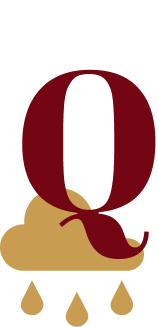
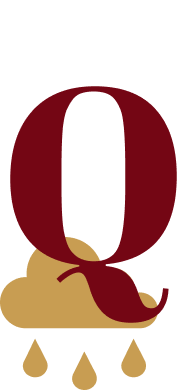
CaseStudyTypography: replace image with coded specimen card; CaseStudyColour: 5-col swatch row, 4-col image row, 12px description text

diff --git a/src/components/CaseStudyTypography.tsx b/src/components/CaseStudyTypography.tsx
@@ -1,16 +1,55 @@
+const SPECIMEN = 'ABCDEFGHIJKLMNOPQRSTUVWXYZabcdefghijklmnopqrstuvwxyz0123456789!?<>,.'
+
+const CAMPINGO = "'Bree Serif', serif"
+const GOTHIQUE = "'Nunito', sans-serif"
+const GEIST    = "'Inter', sans-serif"
+
+const WEIGHTS = [
+  { label: 'light',      w: 300 },
+  { label: 'bold',       w: 700 },
+  { label: 'thin',       w: 100 },
+  { label: 'regular',    w: 400 },
+  { label: 'semi bold',  w: 600 },
+  { label: 'extra bold', w: 800 },
+]
+
+function WeightList({ font }: { font: string }) {
+  return (
+    <div className="flex flex-col gap-[3px] items-end">
+      {WEIGHTS.map((wt) => (
+        <span
+          key={wt.label}
+          style={{
+            fontFamily: font,
+            fontWeight: wt.w,
+            fontSize: '15px',
+            lineHeight: '1.5',
+            color: '#D6587A',
+          }}
+        >
+          {wt.label}
+        </span>
+      ))}
+    </div>
+  )
+}
+
 export default function CaseStudyTypography() {
   return (
     <div className="bg-black px-[30px] grid grid-cols-[1fr_2fr] gap-x-16 gap-y-12 pt-20 pb-24">
 
-      {/* Col 1 — header */}
+      {/* Fonts */}
+      <style>{`@import url('https://fonts.googleapis.com/css2?family=Bree+Serif&family=Nunito:wght@100;200;300;400;600;700;800;900&family=Inter:wght@100;300;400;600;700;800;900&display=swap');`}</style>
+
+      {/* Col 1 */}
       <div className="self-start">
         <h2 className="font-body text-[38px] font-normal leading-[1.1] text-white">
-          Type That Plays Both Roles
+          Type that plays both roles
         </h2>
       </div>
 
-      {/* Col 2 — body + image */}
-      <div className="flex flex-col gap-8">
+      {/* Col 2 */}
+      <div className="flex flex-col gap-8 self-start">
         <p className="font-body text-[18px] font-normal leading-[1.5] text-white">
           The typography system was built to balance personality with readability across
           all contexts. Campingo carries the expressive weight of headlines. Dark Gothique
@@ -18,11 +57,69 @@ export default function CaseStudyTypography() {
           for digital-first environments. Together, they form a system that can shift from
           stadium hoardings to social graphics to editorial design.
         </p>
-        <img
-          src="/assets/casestudy_images/Image Typography.png"
-          alt="Typography system"
-          className="w-full h-auto object-contain"
-        />
+
+        {/* ── Specimen card ── */}
+        <div style={{ border: '28px solid #D9B92C', padding: '44px 44px' }} className="bg-black">
+
+          {/* ─ Row 1: Title / Campingo ─ */}
+          <div className="grid grid-cols-[80px_110px_1fr_90px] gap-x-4 items-start">
+            <div className="flex flex-col gap-1 pt-2">
+              <span className="font-body text-white font-bold text-[11px] uppercase tracking-[0.1em]">Title</span>
+              <span className="font-body text-white/40 font-normal text-[11px]">Campingo</span>
+            </div>
+
+            <div style={{ fontFamily: CAMPINGO, fontSize: '72px', color: '#D9B92C', fontWeight: 400, lineHeight: 1 }}>
+              Tt
+            </div>
+
+            <div style={{ fontFamily: CAMPINGO, fontSize: '32px', color: '#D9B92C', fontWeight: 400, lineHeight: 1.25, wordBreak: 'break-all' }}>
+              {SPECIMEN}
+            </div>
+
+            <div />
+          </div>
+
+          <div className="h-[88px]" />
+
+          {/* ─ Row 2: Body / Dark Gothique ─ */}
+          <div className="grid grid-cols-[80px_110px_1fr_90px] gap-x-4 items-start">
+            <div className="flex flex-col gap-1 pt-2">
+              <span className="font-body text-white font-bold text-[11px] uppercase tracking-[0.1em]">Body</span>
+              <span className="font-body text-white/40 font-normal text-[11px]">Dark Gothique</span>
+            </div>
+
+            <div style={{ fontFamily: GOTHIQUE, fontSize: '60px', color: '#ffffff', fontWeight: 400, lineHeight: 1 }}>
+              Tt
+            </div>
+
+            <div style={{ fontFamily: GOTHIQUE, fontSize: '24px', color: '#ffffff', fontWeight: 400, lineHeight: 1.3, wordBreak: 'break-all' }}>
+              {SPECIMEN}
+            </div>
+
+            <WeightList font={GOTHIQUE} />
+          </div>
+
+          <div className="h-[88px]" />
+
+          {/* ─ Row 3: Alternative Text / Geist ─ */}
+          <div className="grid grid-cols-[80px_110px_1fr_90px] gap-x-4 items-start">
+            <div className="flex flex-col gap-1 pt-2">
+              <span className="font-body text-white font-bold text-[11px] uppercase tracking-[0.1em]">Alternative Text</span>
+              <span className="font-body text-white/40 font-normal text-[11px]">Geist</span>
+            </div>
+
+            <div style={{ fontFamily: GEIST, fontSize: '60px', color: '#ffffff', fontWeight: 400, lineHeight: 1 }}>
+              Tt
+            </div>
+
+            <div style={{ fontFamily: GEIST, fontSize: '24px', color: '#ffffff', fontWeight: 400, lineHeight: 1.3, wordBreak: 'break-all' }}>
+              {SPECIMEN}
+            </div>
+
+            <WeightList font={GEIST} />
+          </div>
+
+        </div>
       </div>
 
     </div>

diff --git a/src/components/CaseStudyPatterns.tsx b/src/components/CaseStudyPatterns.tsx
@@ -14,12 +14,6 @@ export default function CaseStudyPatterns() {
           Patterns and graphics bring the brand to life. Inspired by rhythm, movement, and African
           visual language, these elements add energy and flexibility across different touchpoints.
         </p>
-        <div className="grid grid-cols-2 gap-6 items-center">
-          <img
-            src="/assets/casestudy_images/art direction graphic 1.png"
-            alt="Art Direction Graphic 1"
-            className="w-full h-auto object-contain"
-          />
           <p className="font-body text-[18px] font-normal leading-[1.5] text-white/85">
             This illustration captures the fluidity and energy of the sport, while subtly
             incorporating the &ldquo;T&rdquo; form from our custom typeface. The sense of movement
@@ -27,6 +21,13 @@ export default function CaseStudyPatterns() {
             the bat grounds the visual in the sport itself, creating a seamless blend of rhythm and
             play. This can be used in many visual aids both digital and physical.
           </p>
+        <div className="grid grid-cols-2 gap-6 items-center">
+          <img
+            src="/assets/casestudy_images/art direction graphic 1.png"
+            alt="Art Direction Graphic 1"
+            className="w-full h-auto object-contain"
+          />
+      
         </div>
       </div>
 
@@ -45,13 +46,10 @@ export default function CaseStudyPatterns() {
 
         <div className="grid grid-cols-[auto_1fr_1fr_auto] gap-4 items-end">
           <img src="/assets/casestudy_images/tamba-1.png" alt="Tamba T1" className="w-[65px] h-[70px] object-contain" />
-          <img src="/assets/casestudy_images/art direction graphic 2.png" alt="Graphic 2" className="w-full h-auto object-contain" />
-          <img src="/assets/casestudy_images/art direction graphic 3.png" alt="Graphic 3" className="w-full h-auto object-contain" />
-          <img src="/assets/casestudy_images/tamba-2.png" alt="Tamba T2" className="w-[65px] h-[70px] object-contain" />
+
         </div>
 
         <div className="flex flex-col gap-0">
-          <img src="/assets/casestudy_images/tamba-3.png" alt="Tamba T3" className="w-[65px] h-[70px] object-contain" />
           <div className="grid grid-cols-2 gap-6">
             <img src="/assets/casestudy_images/art direction graphic 4.png" alt="Graphic 4" className="w-full h-auto object-contain" />
             <img src="/assets/casestudy_images/graphic 5.png" alt="Graphic 5" className="w-full h-auto object-contain" />

diff --git a/src/components/CaseStudyColour.tsx b/src/components/CaseStudyColour.tsx
@@ -77,8 +77,8 @@ export default function CaseStudyColour() {
           </p>
         </div>
 
-        {/* Colour swatch grid — 3 then 2 */}
-        <div className="grid grid-cols-3 gap-6">
+        {/* Colour swatch grid — 5 in a row */}
+        <div className="grid grid-cols-5 gap-[3px]">
           {COLOURS.map((c) => (
             <div key={c.hex} className="flex flex-col gap-4">
               <div
@@ -87,7 +87,7 @@ export default function CaseStudyColour() {
                   color: c.textColor,
                   border: c.border ? '1px solid rgba(255,255,255,0.15)' : undefined,
                 }}
-                className="aspect-[4/3] rounded-[24px] flex flex-col items-center pt-8 gap-1 px-4"
+                className="aspect-[8/5] rounded-[16px] flex flex-col items-center pt-3 gap-1 px-2"
               >
                 <p className="font-body text-xs font-semibold uppercase tracking-[0.08em]">
                   {c.category}
@@ -95,17 +95,17 @@ export default function CaseStudyColour() {
                 <p className="font-body text-sm font-bold">{c.hex}</p>
                 <p className="font-body text-[15px] font-normal">{c.name}</p>
               </div>
-              <p className="font-body text-[15px] font-normal leading-[1.5] text-white/85">
+              <p className="font-body text-[12px] font-normal leading-[1.5] text-white/85 px-[2px]">
                 {c.description}
               </p>
             </div>
           ))}
         </div>
 
-        {/* 2×2 palette image grid */}
-        <div className="grid grid-cols-2 gap-[3px]">
+        {/* 4-up palette image row */}
+        <div className="grid grid-cols-4 gap-[3px]">
           {PALETTE_IMAGES.map((img) => (
-            <div key={img.src} className="aspect-[4/5] overflow-hidden">
+            <div key={img.src} className="aspect-[4/5] overflow-hidden rounded-[16px]">
               <img
                 src={img.src}
                 alt={img.alt}

diff --git a/src/components/CaseStudyIntro.tsx b/src/components/CaseStudyIntro.tsx
@@ -136,7 +136,7 @@ export default function CaseStudyIntro() {
       {/* ── A name that carries its soul ── */}
       <div className="self-start">
         <h2 className="font-body text-[38px] font-normal leading-[1.1] text-white">
-          A name that carries its soul<br />and what shaped it
+          A name that carries its soul and what shaped it.
         </h2>
       </div>
 